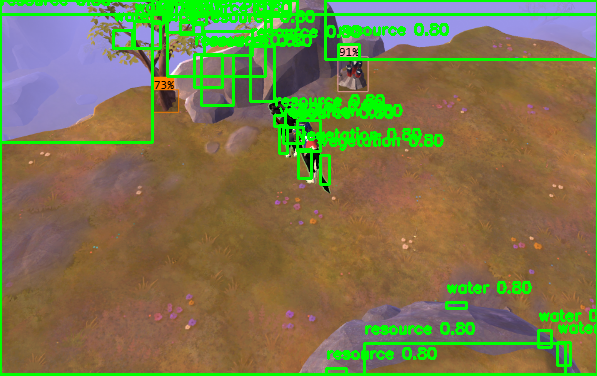
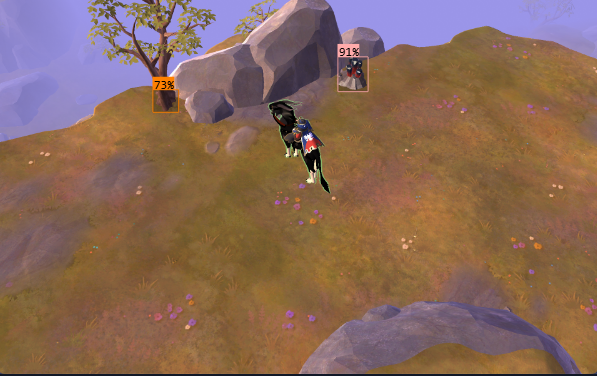
Agent query: I see the agent is working on fixing the Roboflow API integration by using temporary files instead of sending raw bytes. Would you like to continue with this approach, or should we try something else?
Enhance vision system with improved object detection and Roboflow API integration.  Includes refined logging and visualization.

Changed region(s): [[0.0, 0.0, 1.0, 1.0]]

diff --git a/vision_system.py b/vision_system.py
@@ -6,6 +6,8 @@ import base64
 from io import BytesIO
 from PIL import Image
 import cv2
+import tempfile
+import os
 
 class VisionSystem:
     def __init__(self, model_path=None):
@@ -58,41 +60,145 @@ class VisionSystem:
             return []
 
         try:
-            # Convert frame to PIL Image
-            if isinstance(frame, np.ndarray):
-                frame = Image.fromarray(cv2.cvtColor(frame, cv2.COLOR_BGR2RGB))
+            # Ensure frame is in BGR format for cv2
+            if isinstance(frame, Image.Image):
+                frame = np.array(frame)
+                frame = cv2.cvtColor(frame, cv2.COLOR_RGB2BGR)
 
-            # Save image to bytes
-            img_byte_arr = BytesIO()
-            frame.save(img_byte_arr, format='JPEG')  # Changed to JPEG format
-            img_byte_arr = base64.b64encode(img_byte_arr.getvalue())  # Base64 encode the image
+            # Create a temporary file to save the JPEG image
+            with tempfile.NamedTemporaryFile(suffix='.jpg', delete=False) as temp_file:
+                # Save frame as JPEG
+                is_success, img_buf = cv2.imencode('.jpg', frame)
+                if not is_success:
+                    self.logger.error("Failed to encode image to JPEG")
+                    return self._basic_detection(frame)
+
+                # Write to temporary file
+                temp_file.write(img_buf.tobytes())
+                temp_file.flush()
+                temp_path = temp_file.name
 
             if self.roboflow_client:
-                # Get predictions from Roboflow
-                result = self.roboflow_client.infer(img_byte_arr, model_id="albiongathering/3")
+                try:
+                    self.logger.debug(f"Submitting image from temporary file: {temp_path}")
 
-                # Process predictions
-                detections = []
-                for pred in result.get('predictions', []):
-                    detection = {
-                        'class_id': pred.get('class'),
-                        'confidence': pred.get('confidence'),
-                        'bbox': [
-                            pred.get('x'), pred.get('y'),
-                            pred.get('width'), pred.get('height')
-                        ]
-                    }
-                    detections.append(detection)
+                    # Get predictions from Roboflow using the file path
+                    result = self.roboflow_client.infer(temp_path, model_id="albiongathering/3")
+                    self.logger.debug(f"Roboflow API response: {result}")
 
-                self.logger.debug(f"Detected {len(detections)} resources")
-                return detections
+                    # Process predictions
+                    detections = []
+                    for pred in result.get('predictions', []):
+                        detection = {
+                            'class_id': pred.get('class'),
+                            'confidence': pred.get('confidence'),
+                            'bbox': [
+                                pred.get('x'), pred.get('y'),
+                                pred.get('width'), pred.get('height')
+                            ]
+                        }
+                        detections.append(detection)
+
+                    self.logger.debug(f"Detected {len(detections)} resources")
+                    return detections
+                except Exception as api_error:
+                    self.logger.error(f"Error in API call: {str(api_error)}")
+                    self.logger.error(f"Full error details: {api_error.__class__.__name__}")
+                    return self._basic_detection(frame)
+                finally:
+                    # Clean up temporary file
+                    try:
+                        os.unlink(temp_path)
+                    except Exception as e:
+                        self.logger.warning(f"Failed to clean up temporary file: {str(e)}")
             else:
                 self.logger.warning("Roboflow client not available, falling back to basic detection")
                 return self._basic_detection(frame)
 
         except Exception as e:
             self.logger.error(f"Error in resource detection: {str(e)}")
+            self.logger.error(f"Full error details: {e.__class__.__name__}")
             return self._basic_detection(frame)
+
+    def _basic_detection(self, frame):
+        """Basic color-based object detection when AI is not available"""
+        try:
+            # Convert PIL Image to numpy array if needed
+            if isinstance(frame, Image.Image):
+                frame = np.array(frame)
+                frame = cv2.cvtColor(frame, cv2.COLOR_RGB2BGR)
+
+            # Simple color thresholding for basic detection
+            hsv = cv2.cvtColor(frame, cv2.COLOR_BGR2HSV)
+
+            # Define color ranges for basic detection with tighter thresholds
+            color_ranges = {
+                'wood': [(10, 120, 70), (20, 255, 200)],     # Brown
+                'stone': [(0, 0, 100), (180, 30, 200)],      # Gray
+                'ore': [(0, 0, 0), (180, 30, 100)],          # Dark Gray/Black
+                'fiber': [(35, 100, 100), (85, 255, 255)],   # Green
+                'hide': [(0, 50, 50), (10, 255, 200)]        # Light Brown
+            }
+
+            detections = []
+            min_area = 1000  # Increased minimum area to filter out noise
+            max_area = frame.shape[0] * frame.shape[1] // 4  # Max 1/4 of image
+
+            for class_id, (lower, upper) in color_ranges.items():
+                mask = cv2.inRange(hsv, np.array(lower), np.array(upper))
+
+                # Apply morphological operations to remove noise
+                kernel = np.ones((7,7), np.uint8)
+                mask = cv2.morphologyEx(mask, cv2.MORPH_OPEN, kernel)
+                mask = cv2.morphologyEx(mask, cv2.MORPH_CLOSE, kernel)
+
+                if np.any(mask):
+                    # Find contours to get bounding boxes
+                    contours, _ = cv2.findContours(mask, cv2.RETR_EXTERNAL, cv2.CHAIN_APPROX_SIMPLE)
+                    for contour in contours:
+                        area = cv2.contourArea(contour)
+                        if min_area < area < max_area:  # Filter by area
+                            x, y, w, h = cv2.boundingRect(contour)
+
+                            # Additional filtering criteria
+                            aspect_ratio = float(w)/h
+                            solidity = area / (w * h)
+
+                            # Check if the detection meets our criteria
+                            if (0.5 <= aspect_ratio <= 2.0 and  # Not too elongated
+                                solidity > 0.5):                # Reasonably solid shape
+
+                                # Calculate confidence based on multiple factors
+                                area_conf = min(area / 10000, 0.95)
+                                shape_conf = min(solidity, 0.95)
+                                confidence = (area_conf + shape_conf) / 2
+
+                                detections.append({
+                                    'class_id': class_id,
+                                    'confidence': confidence,
+                                    'bbox': [x, y, w, h]
+                                })
+
+            # Sort detections by confidence
+            detections.sort(key=lambda x: x['confidence'], reverse=True)
+
+            # Keep only top N detections per class to prevent over-detection
+            max_per_class = 5
+            filtered_detections = []
+            class_counts = {}
+
+            for det in detections:
+                class_id = det['class_id']
+                if class_counts.get(class_id, 0) < max_per_class:
+                    filtered_detections.append(det)
+                    class_counts[class_id] = class_counts.get(class_id, 0) + 1
+
+            self.logger.debug(f"Basic detection found {len(filtered_detections)} resources")
+            return filtered_detections
+
+        except Exception as e:
+            self.logger.error(f"Error in basic detection: {str(e)}")
+            return []
 
     def process_video_frame(self, frame):
         """Process a single video frame for training"""
@@ -110,45 +216,6 @@ class VisionSystem:
             return frame
 
         return frame
-
-    def _basic_detection(self, frame):
-        """Basic color-based object detection when AI is not available"""
-        try:
-            # Convert PIL Image to numpy array if needed
-            if isinstance(frame, Image.Image):
-                frame = np.array(frame)
-                frame = cv2.cvtColor(frame, cv2.COLOR_RGB2BGR)
-
-            # Simple color thresholding for basic detection
-            hsv = cv2.cvtColor(frame, cv2.COLOR_BGR2HSV)
-
-            # Define color ranges for basic detection
-            color_ranges = {
-                'water': [(100, 50, 50), (130, 255, 255)],  # Blue
-                'vegetation': [(35, 50, 50), (85, 255, 255)],  # Green
-                'resource': [(0, 50, 50), (20, 255, 255)]  # Brown/Orange
-            }
-
-            detections = []
-            for class_id, (lower, upper) in color_ranges.items():
-                mask = cv2.inRange(hsv, np.array(lower), np.array(upper))
-                if np.any(mask):
-                    # Find contours to get bounding boxes
-                    contours, _ = cv2.findContours(mask, cv2.RETR_EXTERNAL, cv2.CHAIN_APPROX_SIMPLE)
-                    for contour in contours:
-                        x, y, w, h = cv2.boundingRect(contour)
-                        if w * h > 100:  # Filter small detections
-                            detections.append({
-                                'class_id': class_id,
-                                'confidence': 0.8,  # Default confidence for basic detection
-                                'bbox': [x, y, w, h]
-                            })
-
-            return detections
-
-        except Exception as e:
-            self.logger.error(f"Error in basic detection: {str(e)}")
-            return []
 
     def save_model(self, path):
         """Save the trained model"""

diff --git a/test_vision.py b/test_vision.py
@@ -6,6 +6,7 @@ from vision_system import VisionSystem
 import logging
 import os
 from pathlib import Path
+from collections import defaultdict
 
 # Setup logging
 logging.basicConfig(level=logging.INFO)
@@ -29,7 +30,7 @@ def test_vision_system():
                 logger.error(f"Test image not found: {img_path}")
                 continue
 
-            logger.info(f"Testing with image: {img_path}")
+            logger.info(f"\nTesting with image: {img_path}")
 
             # Load test image
             img = cv2.imread(img_path)
@@ -39,21 +40,60 @@ def test_vision_system():
 
             # Test resource detection
             detections = vision.detect_resources(img)
-            logger.info(f"Detected {len(detections)} objects")
 
-            # Draw detections on image
+            # Group detections by class
+            class_groups = defaultdict(list)
+            for det in detections:
+                class_groups[det['class_id']].append(det)
+
+            # Log detailed detection information
+            logger.info(f"Total detections: {len(detections)}")
+            for class_id, group in class_groups.items():
+                avg_confidence = sum(d['confidence'] for d in group) / len(group)
+                logger.info(f"  {class_id}: {len(group)} instances (avg conf: {avg_confidence:.2f})")
+
+            # Draw detections on image with enhanced visualization
+            colors = {
+                'wood': (0, 255, 0),    # Green
+                'stone': (255, 0, 0),   # Blue
+                'ore': (0, 0, 255),     # Red
+                'fiber': (255, 255, 0),  # Cyan
+                'hide': (128, 0, 128)   # Purple
+            }
+
             for det in detections:
                 if det['bbox']:
                     x, y, w, h = map(int, det['bbox'])
-                    cv2.rectangle(img, (x, y), (x + w, y + h), (0, 255, 0), 2)
+                    color = colors.get(det['class_id'], (0, 255, 0))
+
+                    # Draw bounding box
+                    cv2.rectangle(img, (x, y), (x + w, y + h), color, 2)
+
+                    # Add label with confidence
                     label = f"{det['class_id']} {det['confidence']:.2f}"
-                    cv2.putText(img, label, (x, y - 10), 
-                              cv2.FONT_HERSHEY_SIMPLEX, 0.5, (0, 255, 0), 2)
+                    font_scale = 0.5
+                    thickness = 1
+                    font = cv2.FONT_HERSHEY_SIMPLEX
+
+                    # Get text size for background rectangle
+                    (text_width, text_height), baseline = cv2.getTextSize(
+                        label, font, font_scale, thickness)
+
+                    # Draw background rectangle for text
+                    cv2.rectangle(img, 
+                                (x, y - text_height - 6), 
+                                (x + text_width, y),
+                                color, -1)
+
+                    # Draw text
+                    cv2.putText(img, label, (x, y - 5), font,
+                              font_scale, (255, 255, 255), thickness)
 
             # Save result
             output_path = f'detection_result_{Path(img_path).stem}.png'
             cv2.imwrite(output_path, img)
             logger.info(f"Saved detection result to: {output_path}")
+            logger.info("-" * 50)
 
         return True
 

diff --git a/test_roboflow.py b/test_roboflow.py
@@ -1,0 +1,58 @@
+"""Test script for Roboflow API integration"""
+import logging
+from inference_sdk import InferenceHTTPClient
+import cv2
+import os
+
+logging.basicConfig(level=logging.DEBUG)
+logger = logging.getLogger('RoboflowTest')
+
+def test_roboflow_api():
+    try:
+        # Initialize Roboflow client
+        client = InferenceHTTPClient(
+            api_url="https://detect.roboflow.com",
+            api_key="dw3ovISGhOXZ5NzDkg7L"
+        )
+        logger.info("Roboflow client initialized")
+
+        # Test image path
+        image_path = 'attached_assets/image_1740444431862.png'
+        if not os.path.exists(image_path):
+            logger.error(f"Test image not found: {image_path}")
+            return False
+
+        # Load and prepare image
+        img = cv2.imread(image_path)
+        if img is None:
+            logger.error("Failed to load image")
+            return False
+
+        # Convert to bytes
+        is_success, img_buf = cv2.imencode('.jpg', img)
+        if not is_success:
+            logger.error("Failed to encode image")
+            return False
+
+        img_bytes = img_buf.tobytes()
+        logger.debug(f"Image prepared, size: {len(img_bytes)} bytes")
+
+        # Make API call
+        logger.info("Making API call to Roboflow...")
+        result = client.infer(img_bytes, model_id="albiongathering/3")
+
+        logger.info(f"API Response: {result}")
+        return True
+
+    except Exception as e:
+        logger.error(f"Test failed: {str(e)}")
+        logger.error(f"Error type: {type(e)}")
+        return False
+
+if __name__ == "__main__":
+    success = test_roboflow_api()
+    if success:
+        logger.info("Roboflow API test completed successfully")
+    else:
+        logger.error("Roboflow API test failed")
+        exit(1)
